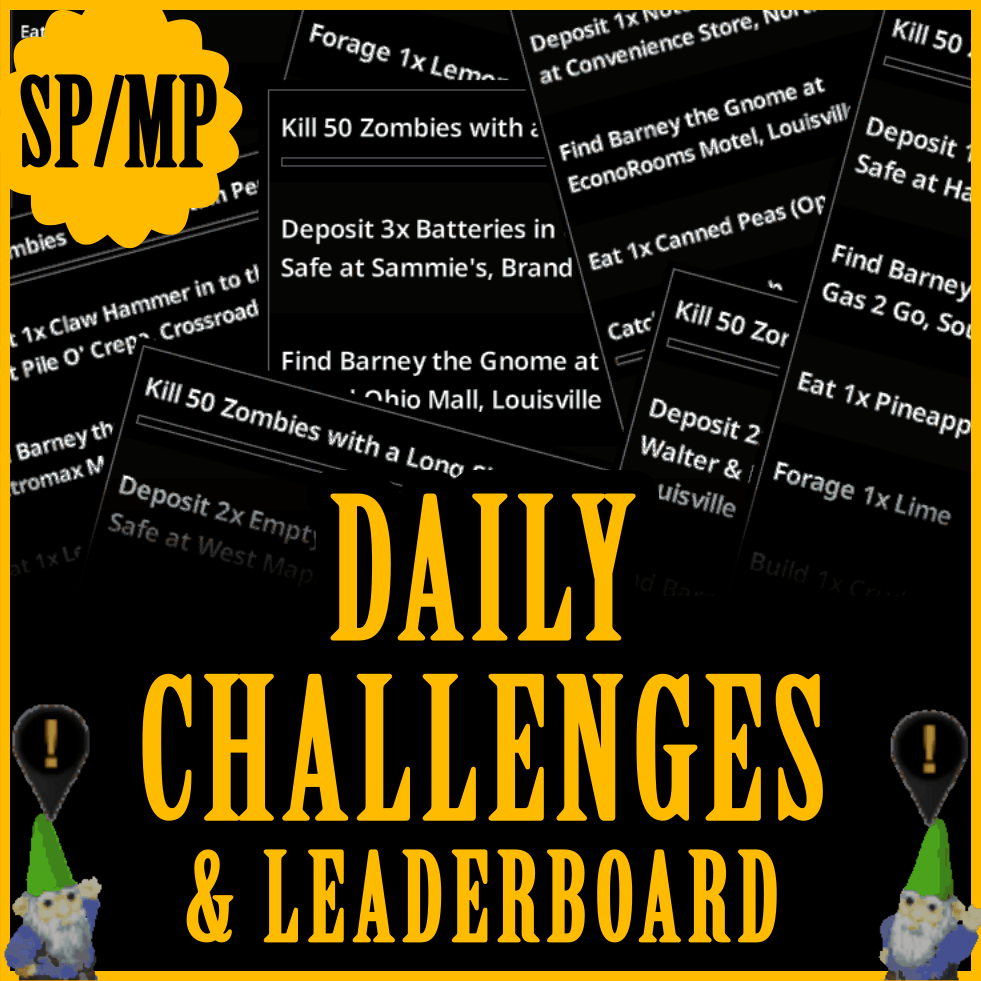
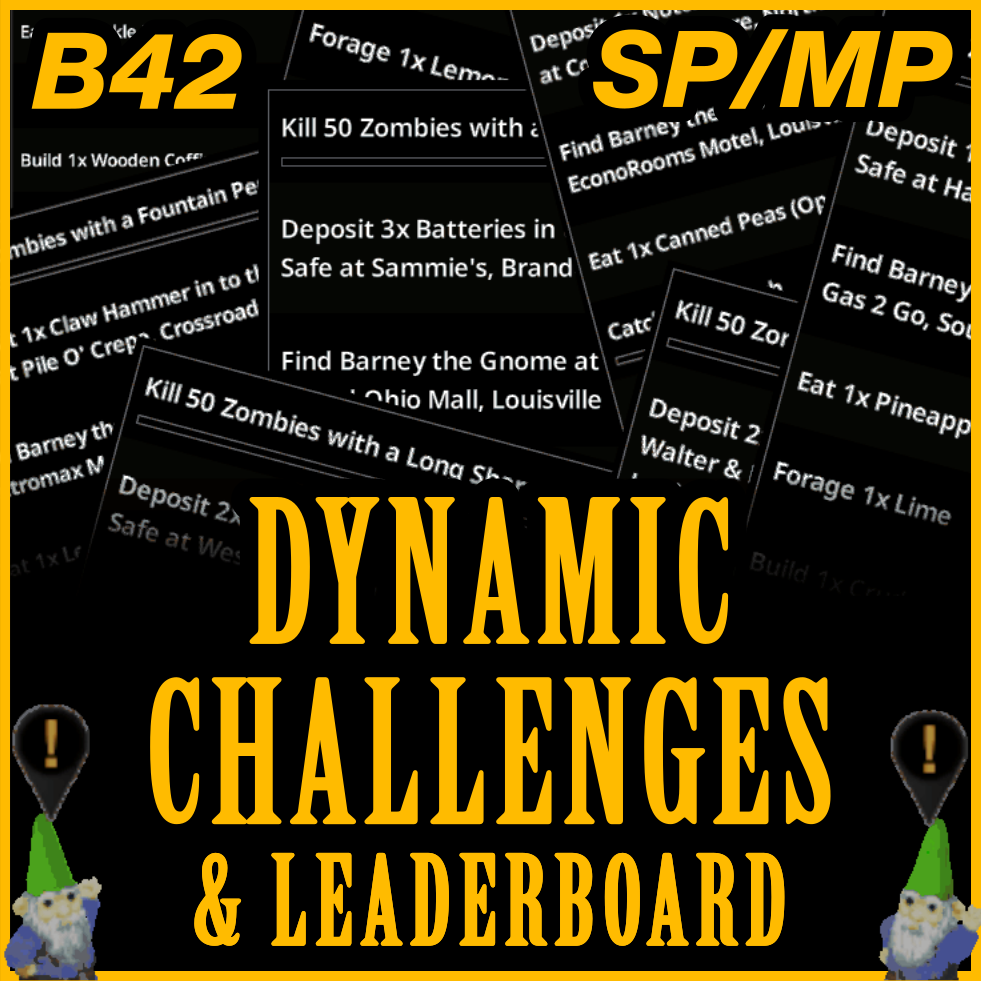
Update Daily > Dynamic

Changed region(s): [[0.1223, 0.4587, 0.8563, 0.9786], [0.0, 0.0, 0.2446, 0.2752], [0.581, 0.0, 0.9786, 0.1223]]

diff --git a/index.html b/index.html
@@ -3,13 +3,13 @@
 <head>
   <meta charset="utf-8">
   <meta name="viewport" content="width=device-width, initial-scale=1.0">
-  <title>Daily Challenges &amp; Leaderboard - Project Zomboid</title>
+  <title>Dynamic Challenges &amp; Leaderboard - Project Zomboid</title>
   <link rel="stylesheet" href="style.css">
   <link rel="icon" href="img/dcsfavicon.png" type="image/png">
 </head>
 <body>
   <div class="panel">
-    <div class="panel-title" id="panel-title">Daily Challenges</div>
+    <div class="panel-title" id="panel-title">Dynamic Challenges</div>
     <div class="panel-tabs">
       <button class="tab-btn" data-tab="about">Information</button>
       <button class="tab-btn active" data-tab="challenges">Challenges</button>
@@ -21,11 +21,11 @@
         <div class="challenges-list" id="challenges-list"></div>
       </div>
       <div class="tab-footer">
-        <div class="footer-text">Challenges reset Daily at Midnight UTC</div>
+        <div class="footer-text">Challenges reset at Midnight UTC</div>
         <br>
-        <div class="footer-text">Complete all 7 Daily Challenges to<br>reveal the Token Vendor's Locations</div>
+        <div class="footer-text">Complete all 7 Challenges to<br>reveal the Token Vendor's Locations</div>
         <br>
-        <div class="footer-text">Maintain a Daily Streak of 28 Days<br>to be awarded Bonus Tokens</div>
+        <div class="footer-text">Maintain a Streak of 28 Days<br>to be awarded Bonus Tokens</div>
       </div>
     </div>
     <div class="tab-content" id="tab-about">
@@ -37,9 +37,9 @@
       <div class="about-content">
         <div class="about-panel">
           <div class="about-section about-aboutinfo active" id="about-aboutinfo">
-            <div class="supporters-header">About<br>[B42] Daily Challenges &amp; Leaderboard [SP/MP]</div>
+            <div class="supporters-header">About<br>[B42] Dynamic Challenges &amp; Leaderboard [SP/MP]</div>
             <div class="about-section-body">
-              <div class="about-text">Daily Challenges &amp; Leaderboard gives your Project Zomboid playthrough a brand-new progression system which incentivizes Players to keep logging in Daily. Every day at Midnight (UTC), 7 new Challenges become available for Players to complete. Complete Challenges to earn tokens and then exchange those tokens for Items at the 'Token Vendor'.</div>
+              <div class="about-text">Dynamic Challenges &amp; Leaderboard gives your Project Zomboid playthrough a brand-new progression system which incentivizes regular log-ins. At a configurable set 'Rotation' time, 7 new Challenges become available for Players to complete. Complete Challenges to earn tokens and then exchange those tokens for Items at the 'Token Vendor'.</div>
             </div>
             <div class="supporters-header">Challenge Types</div>
             <div class="about-section-body">
@@ -54,15 +54,15 @@
             </div>
             <div class="supporters-header">Streaks &amp; Rewards</div>
             <div class="about-section-body">
-              <div class="about-text">Complete 1 Challenge per day to maintain a Streak. Maintaining a Daily Streak pushes you through 4 reward tiers over 28 days. Early tiers pay 1 Token per Challenge; the final tier pays 4 Tokens per Challenge. Finish all 7 Challenges in one day for bonus Tokens. Complete a 28 day Streak for a 25-token milestone before the cycle resets.</div>
+              <div class="about-text">Complete 1 Challenge per Rotation to maintain a Streak, pushing you through 4 Streak Levels. The first Level pays 1 Token per Challenge, the final Level pays 4 per Challenge. Finish all 7 Challenges before Rotation for bonus Tokens, and holding a Streak through Level 4 nets a 25-token milestone before the cycle resets.</div>
             </div>
             <div class="supporters-header">Token Vendors</div>
             <div class="about-section-body">
-              <div class="about-text">Exchange Tokens for Items. Available Items and quantities are randomized daily. Two random Vendor locations spawn each day — one on the east side of the map, one on the west. Each one carries different items. Complete all 7 Challenges per day to unlock their Locations.</div>
+              <div class="about-text">Exchange Tokens for Items. Each Vendor shows a rotating selection (~18 items, balanced across categories) instead of the full catalogue. Stock and selection are randomized with Rotation, and Admins can adjust the randomness range via "Limit Shop Items" in DCS Settings. Two random Vendor locations (1x East + 1x West) spawn each Rotation, carrying different items. Admins can configure how many Challenges need to be completed to unlock their locations.</div>
             </div>
             <div class="supporters-header">Leaderboard/Hall of Fame</div>
             <div class="about-section-body">
-              <div class="about-text">Earn your place on the Leaderboard by competing with other Players on the Server for the Most Challenges Completed, Longest Streak, Fastest Challenge Completion time and more. In Singleplayer, the Hall of Fame displays your Character's best efforts in Most Challenges Complete and Fastest Completion Times.</div>
+              <div class="about-text">Compete with other Players (or your previous Characters in Singleplayer) for Most Challenges Completed, Longest Streak, Fastest Completion time and more. Singleplayer's personal Hall of Fame tracks Most Completed, Longest Streak, and Fastest 7.</div>
             </div>
             <div class="supporters-header">Admin Tools</div>
             <div class="about-section-body">
@@ -75,11 +75,14 @@
               <div class="about-text">- Server authoritative validation to prevent client-side exploits.</div>
               <div class="about-text">- Compatible with most other Mods. All Items from other Mods are available to be added to the Token Vendor Shop via the Admin's 'Vendor Editor' panel. May have some visual conflicts with Mods that add a sidebar icon or Mods that add a button to the Vanilla PZ Admin Menu. Modded Weapons at this time do not count towards kill challenges (but may be supported in Future Updates).</div>
               <div class="about-text">- Supports all Font Size Settings.</div>
-              <div class="about-text">- Supported Languages: EN, FR, DE, ES, PTBR, RU, AR, CN</div>
+              <div class="about-text">- Translations for all Supported PZ Languages</div>
             </div>
             <div class="supporters-header">Future Updates</div>
             <div class="about-section-body">
+              <div class="about-text">- Adding new B42.20 Challenge Locations</div>
               <div class="about-text">- More Challenge Types (Medical, PvP etc.) and extra Challenge variety.</div>
+              <div class="about-text">- Controller support</div>
+              <div class="about-text">- More Admin Settings</div>
               <div class="about-text">- Translation Improvements (Full translations for Challenges with Item Names, Locations, Build/Craft Recipes + more)</div>
               <div class="about-text">- V2 System including Admin configuration panel for toggling reward modes, options for currency types and default reward values, Vendor settings, rolling leaderboard history + more</div>
             </div>
@@ -94,9 +97,9 @@
             <div class="footer-heading">Download the Mod on Steam:</div>
             <br>
             <a class="steam-mod-card" href="https://steamcommunity.com/sharedfiles/filedetails/?id=3752111970" target="_blank" rel="noopener noreferrer">
-              <img class="steam-mod-thumb" src="img/dcs.png" alt="Daily Challenges &amp; Leaderboard" loading="lazy">
+              <img class="steam-mod-thumb" src="img/dcs.png" alt="Dynamic Challenges &amp; Leaderboard" loading="lazy">
               <div class="steam-mod-info">
-                <div class="steam-mod-title" id="dc-title">[B42] Daily Challenges &amp; Leaderboard [MP]</div>
+                <div class="steam-mod-title" id="dc-title">[B42] Dynamic Challenges &amp; Leaderboard [MP]</div>
                 <div class="steam-mod-stats">
                   <span class="steam-stat" title="Unique Visitors">
                     <svg width="10" height="10" viewBox="0 0 24 24" fill="none" stroke="#888888" stroke-width="2" stroke-linecap="round" stroke-linejoin="round"><path d="M2 12s3-7 10-7 10 7 10 7-3 7-10 7-10-7-10-7z"/><circle cx="12" cy="12" r="3"/></svg>
@@ -119,14 +122,14 @@
             </a>
           </div>
           <div class="about-section about-faq" id="about-faq">
-            <div class="supporters-header faq-header">"Can I get the Daily Challenges auto-posted to my Discord Server?"</div>
+            <div class="supporters-header faq-header">"Can I get the Dynamic Challenges auto-posted to my Discord Server?"</div>
             <div class="about-section-body">
               <div class="about-text">Sure. Here's how to do it.</div>
               <br>
               <div class="about-text">1. <a class="about-link" href="https://discord.gg/invite/yYB4EDxm2h" target="_blank" rel="noopener noreferrer">Join my Discord Server</a></div>
-              <div class="about-text">2. Navigate to the #daily-challenges channel</div>
+              <div class="about-text">2. Navigate to the #dynamic-challenges channel</div>
               <div class="about-text">3. Click 'Follow'. A prompt will appear asking what server and channel you'd like the Bot to post in.</div>
-              <div class="about-text">4. Wait for Midnight UTC, when the Bot will auto-post the new Daily Challenges.</div>
+              <div class="about-text">4. Wait for Midnight UTC, when the Bot will auto-post the new Dynamic Challenges.</div>
             </div>
             <div class="supporters-header faq-header">"Does this Mod work in Singleplayer and Multiplayer?"</div>
             <div class="about-section-body">
@@ -134,7 +137,7 @@
             </div>
             <div class="supporters-header faq-header">"Is the Mod compatible with Build 41?"</div>
             <div class="about-section-body">
-              <div class="about-text">No, Daily Challenges is only compatible with Build 42.15+ and was developed on Build 42.19</div>
+              <div class="about-text">No, Dynamic Challenges is only compatible with Build 42.15+ and was developed on Build 42.19</div>
             </div>
             <div class="supporters-header faq-header">"I've found a Bug, what do I do?"</div>
             <div class="about-section-body">
@@ -158,7 +161,7 @@
               <div class="about-text">helps get them fixed ASAP and</div>
               <div class="about-text">ensures the Mod is enjoyable for everyone.</div>
             </div>
-            <div class="supporters-header faq-header">"What Mods is Daily Challenges Compatible with?"</div>
+            <div class="supporters-header faq-header">"What Mods is Dynamic Challenges Compatible with?"</div>
             <div class="about-section-body">
               <div class="about-text">Compatible with most other Mods. Items from other Mods can be added to the Token Vendor via the Vendor Editor. May visually conflict with Mods that add a sidebar icon or a button to the Vanilla PZ Admin Menu. Modded weapons don't yet count towards kill challenges.</div>
               <br>
